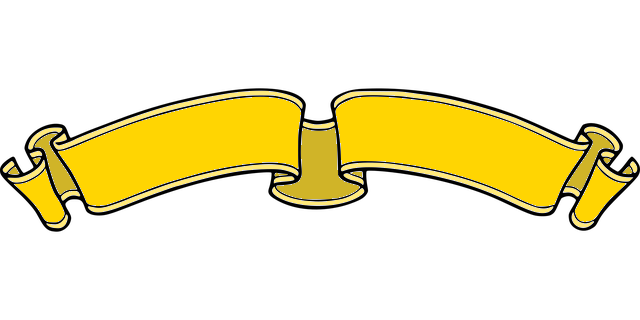
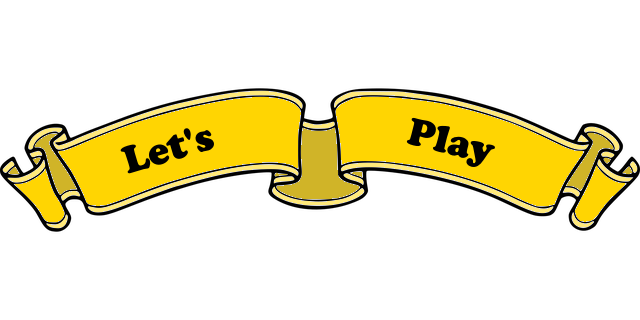
rework startside scss add game info some if saftys

Changed region(s): [[0.1875, 0.4062, 0.3438, 0.5625], [0.625, 0.375, 0.7812, 0.5312]]

diff --git a/src/app/start-screen/start-screen.component.scss b/src/app/start-screen/start-screen.component.scss
@@ -3,7 +3,7 @@
 .start-screen {
   height: 100dvh;
   width: 100dvw;
-  font-family: "Caprasimo";
+  font-family: "Caprasimo" !important;
 
   background-color: #404040;
 
@@ -22,11 +22,27 @@
     position: relative;
 
     > h1 {
+      font: 700 90px "Caprasimo";
       position: absolute;
       top: 13%;
-      font-size: 7vw;
       -webkit-text-stroke: 1px black;
       -webkit-text-fill-color: goldenrod;
+      margin: 0;
+
+      @media only screen and (max-width:750px) {   
+        font: 700 50px "Caprasimo" ;
+      }
+
+      @media only screen and (max-width:490px) {   
+        font: 700 32px "Caprasimo" ;
+      }
+
+      @media only screen and (max-height:750px) {   
+        font: 700 50px "Caprasimo" ;
+      }
+      @media only screen and (max-height:490px) {   
+        font: 700 32px "Caprasimo" ;
+      }
     }
 
     .cardhand {
@@ -49,26 +65,6 @@
       }
   
     }
-
-    .Lets,
-    .Start {
-      position: absolute;
-      font-size: 4.7dvw; 
-      font-weight: 400;
-      bottom: 30.5%;
-      -webkit-text-stroke: 1px black;
-      -webkit-text-fill-color: whitesmoke;
-      text-shadow: 2px 2px 2px;
-    }
-
-    .Lets {
-      transform: rotate(-16deg);
-      left: 22%;
-    }
-
-    .Start {
-      transform: rotate(16deg);
-      right: 20%;
-    }
   }
 }
+

diff --git a/src/app/game/game.component.ts b/src/app/game/game.component.ts
@@ -29,6 +29,7 @@ interface GameObject {
 
 export class GameComponent {
   constructor(public dialog: MatDialog) {};
+  
   colors:string[] = ['rgb(221, 106, 106)', 'rgb(231, 171, 58)', 'rgb(228, 228, 46)', 'rgb(49, 224, 49)', 'rgb(187, 236, 252)', 'rgb(150, 102, 150)','rgb(247, 191, 200)', 'rgb(135, 243, 135)'];
 
    pickCardAnimation:boolean = false; 
@@ -45,14 +46,16 @@ export class GameComponent {
     this.game = new Game()
   }
 
-
   takeCard(){
     if (!this.pickCardAnimation && this.game && this.CurrentPlayers > 1) {
       this.currentCard = this.game.stack.pop();         
-      this.pickCardAnimation = true; 
+      this.pickCardAnimation = true;       
       
       setTimeout(() => {
-        this.game?.playedCard.push(this.returnString(this.currentCard));
+        this.game!.currentPlayer++
+        this.game!.currentPlayer = this.game!.currentPlayer % this.game!.players.length;
+        
+        this.game!.playedCard.push(this.returnString(this.currentCard));
         this.drawnCards = this.returnNumberOfDrawnCards();
         this.pickCardAnimation = false;},1500
       )
@@ -93,6 +96,5 @@ export class GameComponent {
         this.CurrentPlayers = this.returnNumberOfPlayer()
       }      
     });
-  }
-  
+  }  
 }

diff --git a/src/app/game/game-info/game-info.component.ts b/src/app/game/game-info/game-info.component.ts
@@ -1,11 +1,10 @@
 import { Component, Input, OnChanges } from '@angular/core';
 import {MatCardModule} from '@angular/material/card';
-import { GameComponent } from '../game.component';
 
 @Component({
   selector: 'app-game-info',
   standalone: true,
-  imports: [MatCardModule,GameComponent],
+  imports: [MatCardModule],
   templateUrl: './game-info.component.html',
   styleUrl: './game-info.component.scss'
 })
@@ -22,12 +21,12 @@ export class GameInfoComponent {
     { title: 'Thumbmaster', description: '' },
     { title: 'Men', description: 'All men drink.' },
     { title: 'Quizmaster', description: '' },
-    { title: 'Never have i ever...', description: 'Say something you nnever did. Everyone who did it has to drink.' },
+    { title: 'Never have i ever...', description: 'Say something you never did. Everyone who did it has to drink.' },
     { title: 'Rule', description: 'Make a rule. Everyone needs to drink when he breaks the rule.' },
   ];
 
-  title:string = 'Here comes the title of card.';
-  description:string = 'Here comes , what you must do.';
+  title:string = '';
+  description:string = '';
 
   @Input() card?:string;
 

diff --git a/src/app/game/game.component.html b/src/app/game/game.component.html
@@ -1,5 +1,6 @@
 <section class="playground">
 
+  <!-- Player Names -->
   <app-player *ngFor="let players of game?.players;let i = index" class="player-list" [ngStyle]="{'top.px': (80 * i)+150}" [name]="players" [bgc]="colors[i]" [playerActive]="i == game?.currentPlayer" ></app-player>
 
   <div class="card-stack">
@@ -15,8 +16,10 @@
     <img [ngStyle]="{'right.px': drawnCards, 'bottom.px' : drawnCards }"  src="/assets/img/cards/{{currentCard}}.png" alt="shown a cand from backside" class="pick-card" (click)="takeCard()" *ngIf="pickCardAnimation" >
   </div>  
 
+  <!-- Gaminfo -->
   <app-game-info [card]="currentCard" class="pin-bottom"></app-game-info>
 
+  <!-- Add Player -->
   <button mat-fab color="primary" class="btn-add" (click)="openDialog()" >
     <mat-icon>add</mat-icon>
   </button>

diff --git a/src/app/game/game-info/game-info.component.html b/src/app/game/game-info/game-info.component.html
@@ -2,12 +2,12 @@
     <mat-card>
         <mat-card-header>
             <mat-card-title>
-                {{title}}
+                {{ card ? title : 'Please add a minimum of 2 Player'}}
             </mat-card-title>
         </mat-card-header>
 
         <mat-card-content>
-            {{description}}
+            {{card ? description : 'Pick a card from stack, when you want start the game.'}}
         </mat-card-content>
     </mat-card>
 </section>

diff --git a/src/app/start-screen/start-screen.component.html b/src/app/start-screen/start-screen.component.html
@@ -3,7 +3,5 @@
         <h1>Ring of Fire</h1>
         <img src="./assets/img/cardbg.png" alt="Four A's Cards " class="cardhand">
         <img (click)="newGame()" src="./assets/img/ribbon.png" alt="A ribbon" class="ribbon">
-        <p class="Lets">Let's</p>
-        <p class="Start">Start!</p>
     </div>
 </section>

diff --git a/src/app/player/dialog-add-player/dialog-add-player.component.html b/src/app/player/dialog-add-player/dialog-add-player.component.html
@@ -9,7 +9,7 @@
 
 <mat-dialog-actions>
   <button mat-button (click)="onNoClick()">No Thanks</button>
-  <button mat-button [mat-dialog-close]="name" cdkFocusInitial>Ok</button>
+  <button mat-button [disabled]="name?.length == null"  [mat-dialog-close]="name" >Ok</button>
 </mat-dialog-actions>
 
 
